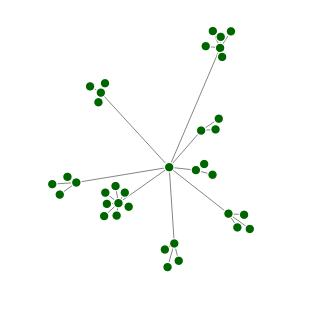
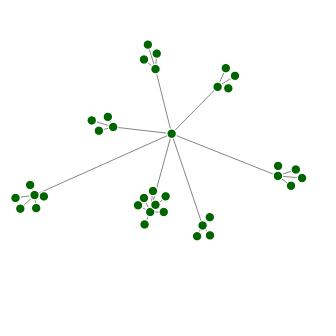
Add files via upload

diff --git a/Course_of_bipolar_illness-episodes.html b/Course_of_bipolar_illness-episodes.html
@@ -1209,9 +1209,9 @@ return function(){for(var n=0,e=0;e<t;++e)n+=Math.random();return n}},um=functio
 </head>
 <body style="background-color: white;">
 <div id="htmlwidget_container">
-  <div class="forceNetwork html-widget html-fill-item-overflow-hidden html-fill-item" id="htmlwidget-9606b8744cfd99b9e43e" style="width:960px;height:500px;"></div>
+  <div class="forceNetwork html-widget html-fill-item-overflow-hidden html-fill-item" id="htmlwidget-3b451b8475ed8239e04f" style="width:960px;height:500px;"></div>
 </div>
-<script type="application/json" data-for="htmlwidget-9606b8744cfd99b9e43e">{"x":{"links":{"source":[16,19,9,29,23,13,19,9,29,23,1,0,0,33,0,23,13,1,23,0,0,1,1,0,1,0,23,16,19,9,29,0,33,1,33,1],"target":[17,21,11,31,26,14,20,10,30,27,4,23,33,35,1,24,15,2,25,16,13,7,5,19,3,9,28,18,22,12,32,29,36,6,34,8],"colour":["#666","#666","#666","#666","#666","#666","#666","#666","#666","#666","#666","#666","#666","#666","#666","#666","#666","#666","#666","#666","#666","#666","#666","#666","#666","#666","#666","#666","#666","#666","#666","#666","#666","#666","#666","#666"]},"nodes":{"name":["Course_of_bipolar_illness-episodes","General_episodic_features","History_of_postpartum_eps","Melancholia","Catatonia","Lifetime_rapid_cycling","Seasonality","Length_of_yrs_between_1st_&_2nd_affective_eps","Total_Number_of_affective_episode_(life)","Mixed_episode_course","Age_at_last_mixed_episode","Age_at_first_mixed_eps","Number_of_mixed_eps","Hypomanic_eps_course","Age_at_last_hypomanic_eps","History_of_medication_induced_mania_&_hypomania_eps","Hypomanic_episode_course","Age_at_first_hypomanic_eps","Number_of_hypomanic_eps","Manic_episode_course","Age_at_last_manic_eps","Age_at_first_manic_eps","Number_of_manic_eps","Depressive_episode_course","History_of_depression_with_atypical_symptoms","History_of_psychotic_depression","Age_at_last_depressive_eps","Age_of_first_depressive_eps","Number_of_depressive_eps","Psychotic_eps_course","Age_at_last_psychotic_eps","Age_at_first_psychotic_eps","Number_of_psychotic_eps","First_eps_features","Significant_life_event_at_first_eps","First_eps_polarity","Psychotic_features_at_first_eps"],"group":["Course_of_bipolar_illness-episodes","Course_of_bipolar_illness-episodes","Course_of_bipolar_illness-episodes","Course_of_bipolar_illness-episodes","Course_of_bipolar_illness-episodes","Course_of_bipolar_illness-episodes","Course_of_bipolar_illness-episodes","Course_of_bipolar_illness-episodes","Course_of_bipolar_illness-episodes","Course_of_bipolar_illness-episodes","Course_of_bipolar_illness-episodes","Course_of_bipolar_illness-episodes","Course_of_bipolar_illness-episodes","Course_of_bipolar_illness-episodes","Course_of_bipolar_illness-episodes","Course_of_bipolar_illness-episodes","Course_of_bipolar_illness-episodes","Course_of_bipolar_illness-episodes","Course_of_bipolar_illness-episodes","Course_of_bipolar_illness-episodes","Course_of_bipolar_illness-episodes","Course_of_bipolar_illness-episodes","Course_of_bipolar_illness-episodes","Course_of_bipolar_illness-episodes","Course_of_bipolar_illness-episodes","Course_of_bipolar_illness-episodes","Course_of_bipolar_illness-episodes","Course_of_bipolar_illness-episodes","Course_of_bipolar_illness-episodes","Course_of_bipolar_illness-episodes","Course_of_bipolar_illness-episodes","Course_of_bipolar_illness-episodes","Course_of_bipolar_illness-episodes","Course_of_bipolar_illness-episodes","Course_of_bipolar_illness-episodes","Course_of_bipolar_illness-episodes","Course_of_bipolar_illness-episodes"]},"options":{"NodeID":"name","Group":"l1_id","colourScale":"d3.scaleOrdinal() .domain([\"Clinical_characteristics\", \"Cognitive\" , \"Course_of_bipolar_illness-episodes\"   ,    \n   \"Course_of_bipolar_illness-symptoms\", \"Course_of_non-bipolar_psychiatric_illness\", \"Current_illness_severity\"   ,              \n  \"Current_pharmacological_treatment\", \"Demographics\", \"Ecological_Momentary_Assessment\"  , \"Family_history\"  , \"Lifetime_pharmacological_treatment\", \n  \"Metadata\"  ,  \"Trauma_stress\"  ,  \"Physical_health\", \"Physiological\" ,  \"Positive_psychological_factors\", \"Clinical_Trial-specific\", \"Course_of_treatment\"]) .range([\"#7FC07F\" , \"#BEAED4\" ,\"darkgreen\" ,\"#C90B20\", \"violet\" ,\n \"#F0027F\" ,\"#BF5B20\" ,\"#666666\" ,\"#1B0E77\" ,\"#D95F00\" ,\n\"#7570B3\" ,\"#E7290A\", \"#66A61E\" ,\"#E6AA00\" ,\"#A6761D\" ,\n\"#666666\" ,\"#A6CED3\", \"darkmagenta\"  ,\"#FB9A99\",  \"turquoise\" ])","fontSize":20,"fontFamily":"Calibri","clickTextSize":50,"linkDistance":0.0001,"linkWidth":"function(d) { return Math.sqrt(d.value); }","charge":-70,"opacity":1,"zoom":true,"legend":false,"arrows":false,"nodesize":false,"radiusCalculation":"0.01","bounded":false,"opacityNoHover":0,"clickAction":null}},"evals":[],"jsHooks":{"render":[{"code":" \n  function (el, x) {\n    d3.select(\"svg\").append(\"g\").attr(\"id\", \"legend-layer\");\n    var legend_layer = d3.select(\"#legend-layer\");\n    d3.selectAll(\".legend\")\n      .each(function() { legend_layer.append(() => this); });  \n  }","data":null}]}}</script>
-<script type="application/htmlwidget-sizing" data-for="htmlwidget-9606b8744cfd99b9e43e">{"viewer":{"width":450,"height":350,"padding":10,"fill":true},"browser":{"width":960,"height":500,"padding":10,"fill":true}}</script>
+<script type="application/json" data-for="htmlwidget-3b451b8475ed8239e04f">{"x":{"links":{"source":[13,18,9,28,22,13,18,9,28,22,1,0,0,32,0,22,13,1,22,0,1,1,0,1,0,22,13,18,9,28,0,32,1,32,1],"target":[15,20,11,30,25,14,19,10,29,26,4,22,32,34,1,23,17,2,24,13,7,5,18,3,9,27,16,21,12,31,28,35,6,33,8],"colour":["#666","#666","#666","#666","#666","#666","#666","#666","#666","#666","#666","#666","#666","#666","#666","#666","#666","#666","#666","#666","#666","#666","#666","#666","#666","#666","#666","#666","#666","#666","#666","#666","#666","#666","#666"]},"nodes":{"name":["Course_of_bipolar_illness-episodes","General_episodic_features","History_of_postpartum_eps","Melancholia","Catatonia","Lifetime_rapid_cycling","Seasonality","Length_of_yrs_between_1st_&_2nd_affective_eps","Total_Number_of_affective_episode_(life)","Mixed_episode_course","Age_at_last_mixed_episode","Age_at_first_mixed_eps","Number_of_mixed_eps","Hypomanic_episode_course","Age_at_last_hypomanic_eps","Age_at_first_hypomanic_eps","Number_of_hypomanic_eps","History_of_medication_induced_mania_&_hypomania_eps","Manic_episode_course","Age_at_last_manic_eps","Age_at_first_manic_eps","Number_of_manic_eps","Depressive_episode_course","History_of_depression_with_atypical_symptoms","History_of_psychotic_depression","Age_at_last_depressive_eps","Age_of_first_depressive_eps","Number_of_depressive_eps","Psychotic_eps_course","Age_at_last_psychotic_eps","Age_at_first_psychotic_eps","Number_of_psychotic_eps","First_eps_features","Significant_life_event_at_first_eps","First_eps_polarity","Psychotic_features_at_first_eps"],"group":["Course_of_bipolar_illness-episodes","Course_of_bipolar_illness-episodes","Course_of_bipolar_illness-episodes","Course_of_bipolar_illness-episodes","Course_of_bipolar_illness-episodes","Course_of_bipolar_illness-episodes","Course_of_bipolar_illness-episodes","Course_of_bipolar_illness-episodes","Course_of_bipolar_illness-episodes","Course_of_bipolar_illness-episodes","Course_of_bipolar_illness-episodes","Course_of_bipolar_illness-episodes","Course_of_bipolar_illness-episodes","Course_of_bipolar_illness-episodes","Course_of_bipolar_illness-episodes","Course_of_bipolar_illness-episodes","Course_of_bipolar_illness-episodes","Course_of_bipolar_illness-episodes","Course_of_bipolar_illness-episodes","Course_of_bipolar_illness-episodes","Course_of_bipolar_illness-episodes","Course_of_bipolar_illness-episodes","Course_of_bipolar_illness-episodes","Course_of_bipolar_illness-episodes","Course_of_bipolar_illness-episodes","Course_of_bipolar_illness-episodes","Course_of_bipolar_illness-episodes","Course_of_bipolar_illness-episodes","Course_of_bipolar_illness-episodes","Course_of_bipolar_illness-episodes","Course_of_bipolar_illness-episodes","Course_of_bipolar_illness-episodes","Course_of_bipolar_illness-episodes","Course_of_bipolar_illness-episodes","Course_of_bipolar_illness-episodes","Course_of_bipolar_illness-episodes"]},"options":{"NodeID":"name","Group":"l1_id","colourScale":"d3.scaleOrdinal() .domain([\"Clinical_characteristics\", \"Cognitive\" , \"Course_of_bipolar_illness-episodes\"   ,    \n   \"Course_of_bipolar_illness-symptoms\", \"Course_of_non-bipolar_psychiatric_illness\", \"Current_illness_severity\"   ,              \n  \"Current_pharmacological_treatment\", \"Demographics\", \"Ecological_Momentary_Assessment\"  , \"Family_history\"  , \"Lifetime_pharmacological_treatment\", \n  \"Metadata\"  ,  \"Trauma_stress\"  ,  \"Physical_health\", \"Physiological\" ,  \"Positive_psychological_factors\", \"Clinical_Trial-specific\", \"Course_of_treatment\"]) .range([\"#7FC07F\" , \"#BEAED4\" ,\"darkgreen\" ,\"#C90B20\", \"violet\" ,\n \"#F0027F\" ,\"#BF5B20\" ,\"#666666\" ,\"#1B0E77\" ,\"#D95F00\" ,\n\"#7570B3\" ,\"#E7290A\", \"#66A61E\" ,\"#E6AA00\" ,\"#A6761D\" ,\n\"#666666\" ,\"#A6CED3\", \"darkmagenta\"  ,\"#FB9A99\",  \"turquoise\" ])","fontSize":20,"fontFamily":"Calibri","clickTextSize":50,"linkDistance":0.0001,"linkWidth":"function(d) { return Math.sqrt(d.value); }","charge":-70,"opacity":1,"zoom":true,"legend":false,"arrows":false,"nodesize":false,"radiusCalculation":"0.01","bounded":false,"opacityNoHover":0,"clickAction":null}},"evals":[],"jsHooks":{"render":[{"code":" \n  function (el, x) {\n    d3.select(\"svg\").append(\"g\").attr(\"id\", \"legend-layer\");\n    var legend_layer = d3.select(\"#legend-layer\");\n    d3.selectAll(\".legend\")\n      .each(function() { legend_layer.append(() => this); });  \n  }","data":null}]}}</script>
+<script type="application/htmlwidget-sizing" data-for="htmlwidget-3b451b8475ed8239e04f">{"viewer":{"width":450,"height":350,"padding":10,"fill":true},"browser":{"width":960,"height":500,"padding":10,"fill":true}}</script>
 </body>
 </html>
